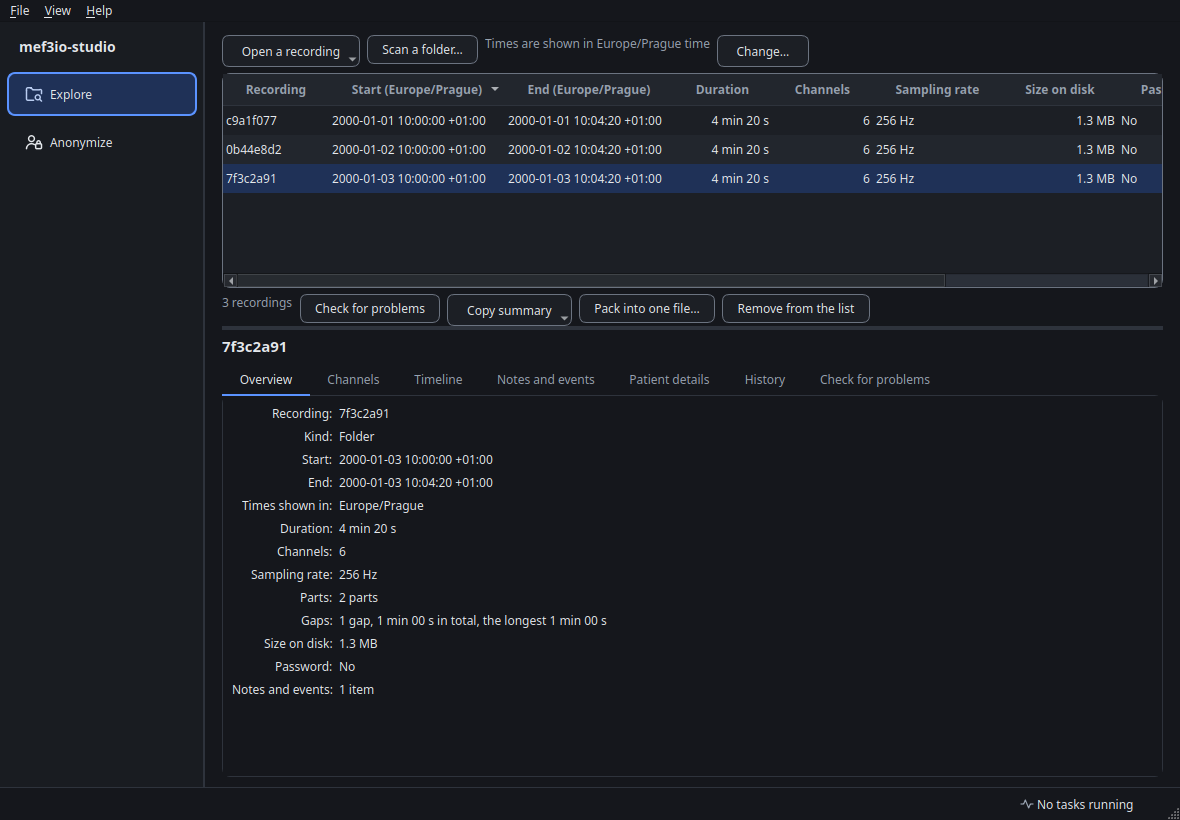
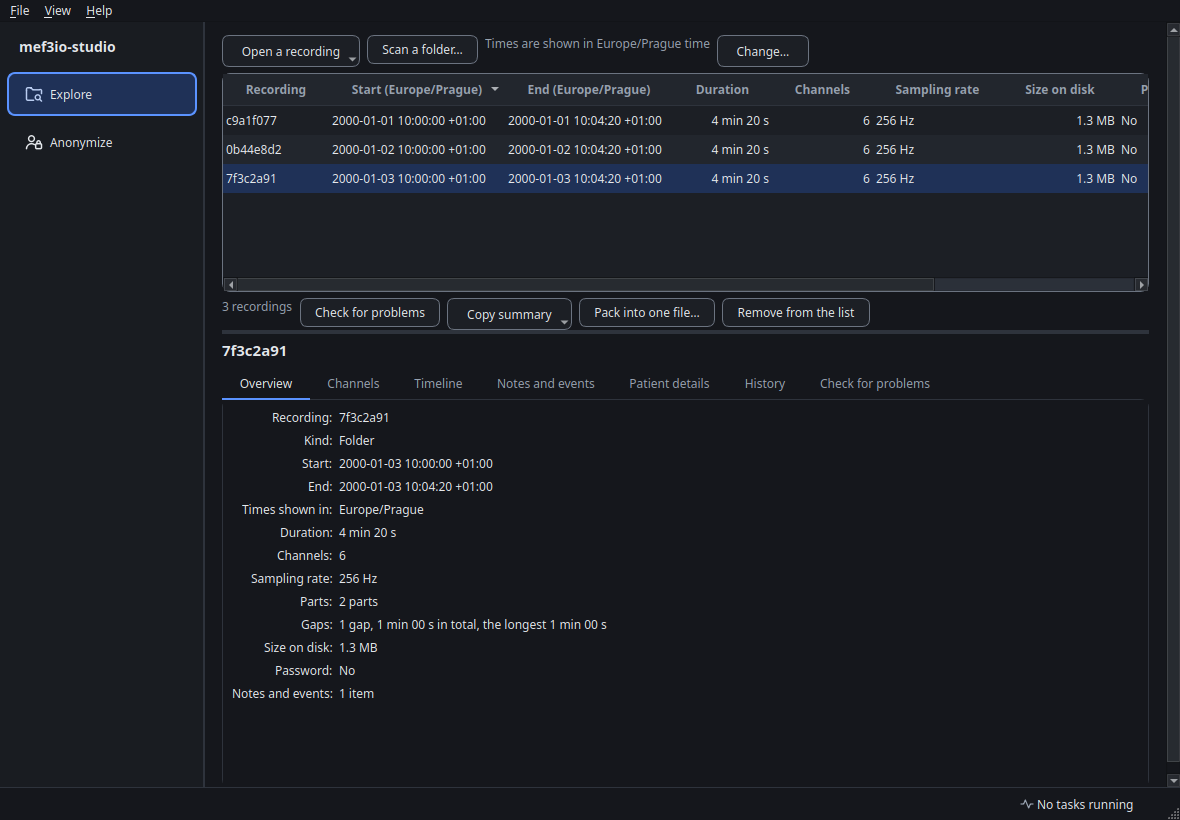
Address review round 4; the Explore page scrolls instead of resizing the window
- Log filter pre-check folds the dotless i like re.IGNORECASE does, so
  'Yildiz' / 'Yıldız' are redacted both ways (test).
- Sorting the notes or channels table keeps the selection on the same
  item (persistent indexes moved; test).
- The batch update of the recordings list always switches re-sorting
  back on (try/finally).
- windows-latest still failed test_layout_is_remembered: the whole page
  now sits in a scroll area, so no platform's widget measurements can
  push the sidebar (minimum width hint 68 px).

Claude-Session: https://claude.ai/code/session_01PWYBRHqzczzUfo99eFKLmQ

Changed region(s): [[0.1831, 0.0915, 1.0, 0.8537], [0.9763, 0.4878, 1.0, 0.9146], [0.9763, 0.0305, 1.0, 0.061]]

diff --git a/src/mef3io_studio/explorer/page.py b/src/mef3io_studio/explorer/page.py
@@ -31,6 +31,7 @@ from PySide6.QtWidgets import (
     QMenu,
     QMessageBox,
     QPushButton,
+    QScrollArea,
     QSizePolicy,
     QSplitter,
     QStackedWidget,
@@ -349,10 +350,23 @@ class ExplorerPage(QWidget):
         self.body.addWidget(self.splitter)
         self.body.setSizePolicy(QSizePolicy.Policy.Expanding, QSizePolicy.Policy.Expanding)
 
-        layout = QVBoxLayout(self)
+        # Everything sits in a scroll area: on a very narrow window (or very
+        # large text) the page scrolls instead of forcing the window, and
+        # the sidebar next to it, to change size. Platforms measure widgets
+        # differently, so no single minimum width can be relied on.
+        inner = QWidget()
+        layout = QVBoxLayout(inner)
         layout.setContentsMargins(int(em), int(em * 0.8), int(em), int(em * 0.6))
         layout.addLayout(toolbar)
         layout.addWidget(self.body, 1)
+        self.scroll = QScrollArea(self)
+        self.scroll.setObjectName("Panel")
+        self.scroll.setWidgetResizable(True)
+        self.scroll.setFrameShape(QFrame.Shape.NoFrame)
+        self.scroll.setWidget(inner)
+        outer = QVBoxLayout(self)
+        outer.setContentsMargins(0, 0, 0, 0)
+        outer.addWidget(self.scroll)
 
         self._remove_action = QAction("Remove from the list", self)
         self._remove_action.setShortcut(Qt.Key.Key_Delete)
@@ -587,11 +601,17 @@ class ExplorerPage(QWidget):
         """``create``: a scan's results (new rows; never overwrite a row
         that is already listed). Otherwise an open task's results, applied
         only to rows that task still owns."""
-        added: list[RecordingEntry] = []
-        applied: list[RecordingEntry] = []
         # One re-sort for the whole batch, not one per recording (each would
         # re-sort the list on the GUI thread).
         self.proxy.setDynamicSortFilter(False)
+        try:
+            self._apply_outcomes(outcomes, prompt, create, job)
+        finally:
+            self.proxy.setDynamicSortFilter(True)  # sorts once, now
+
+    def _apply_outcomes(self, outcomes, prompt: bool, create: bool, job) -> None:
+        added: list[RecordingEntry] = []
+        applied: list[RecordingEntry] = []
         for outcome in outcomes:
             # (The task registered every identifying value with the log
             # filter before publishing it, on its own thread.)
@@ -620,7 +640,6 @@ class ExplorerPage(QWidget):
             self._refresh_body()
             if self.current_entry() is None:
                 self.select_entry(added[0])
-        self.proxy.setDynamicSortFilter(True)  # sorts once, now
         self._fit_columns()
         for entry in applied:
             if prompt and entry.needs_password:

diff --git a/src/mef3io_studio/common/privacy.py b/src/mef3io_studio/common/privacy.py
@@ -189,6 +189,12 @@ def _skeleton(text: str) -> tuple[str, list[int] | range]:
     return "".join(kept), where
 
 
+def _fold(text: str) -> str:
+    """Case-fold the way ``re.IGNORECASE`` compares, for the substring
+    pre-check: it also treats the dotless ı (Turkish) as i."""
+    return text.casefold().replace("\u0131", "i")
+
+
 class IdentityRegistry:
     """A thread-safe set of strings that must never be logged.
 
@@ -218,7 +224,7 @@ class IdentityRegistry:
                 # longer is registered, however generic it looks.
                 if len(re.sub(r"[\W_]+", "", key)) < 2 or key in self._keys:
                     continue
-                parts = [p for p in re.split(r"[\W_]+", key) if p]
+                parts = [p for p in re.split(r"[\W_]+", _fold(key)) if p]
                 pattern = _identity_pattern(text)
                 compiled = (len(pattern), parts[0], re.compile(pattern, re.IGNORECASE))
                 bisect.insort(regexes, compiled, key=lambda item: -item[0])  # longest first
@@ -236,7 +242,7 @@ class IdentityRegistry:
             return text
         decomposed = unicodedata.normalize("NFD", unicodedata.normalize("NFKC", text))
         base, where = _skeleton(decomposed)
-        folded = base.casefold()
+        folded = _fold(base)
         spans = []
         for _length, first, regex in regexes:
             # A cheap substring test first: a value can only match where its

diff --git a/tests/test_explorer_ui.py b/tests/test_explorer_ui.py
@@ -485,3 +485,17 @@ def test_summaries_of_several_hidden_recordings_are_numbered(page, qtbot, tmp_pa
     text = page.summary_text(page.entries(), "text")
     assert "Item: 1 of 2" in text and "Item: 2 of 2" in text
     assert "Item" not in page.summary_text(page.entries()[:1], "text")
+
+
+def test_sorting_notes_keeps_the_selection_on_the_same_note(page, qtbot, tmp_path):
+    path = write_plain(tmp_path / "sel.mefd", notes=False)
+    with mef3io.Writer(str(path)) as w:
+        w.write_annotations([{"time": T0 + i * 1000, "text": f"n{i:03d}"} for i in range(50)])
+    page.open_paths([str(path)], interactive=False)
+    wait_loaded(qtbot, page, 1)
+    table = page.notes.table
+    table.selectRow(0)
+    chosen = table.rows.objects[0]
+    table.sortByColumn(0, Qt.SortOrder.DescendingOrder)
+    row = table.selectionModel().selectedRows()[0].row()
+    assert table.rows.objects[row] is chosen and row == 49

diff --git a/src/mef3io_studio/explorer/panels.py b/src/mef3io_studio/explorer/panels.py
@@ -164,7 +164,15 @@ class RowsModel(QAbstractTableModel):
     def sort(self, column: int, order=Qt.SortOrder.AscendingOrder) -> None:
         self._sorted = (column, order)
         self.layoutAboutToBeChanged.emit()
+        # Keep the selection on the same items, not the same row numbers.
+        old = self.persistentIndexList()
+        held = [(index, self.objects[index.row()]) for index in old]
         self._sort_objects(column, order)
+        rows = {id(obj): row for row, obj in enumerate(self.objects)}
+        self.changePersistentIndexList(
+            [index for index, _obj in held],
+            [self.index(rows[id(obj)], index.column()) for index, obj in held],
+        )
         self.layoutChanged.emit()
 
 

diff --git a/tests/test_privacy.py b/tests/test_privacy.py
@@ -353,3 +353,12 @@ def test_registering_many_identities_stays_cheap():
     registry.register("One More Person Name")
     assert time.perf_counter() - start < 0.05
     assert registry.redact("One More Person Name") == "[redacted]"
+
+
+def test_dotless_i_is_matched_both_ways():
+    from mef3io_studio.common.privacy import IdentityRegistry
+
+    for registered, logged in (("Yildiz", "Yıldız"), ("Yıldız", "Yildiz")):
+        registry = IdentityRegistry()
+        registry.register(registered)
+        assert registry.redact(f"saw {logged} today") == "saw [redacted] today"
